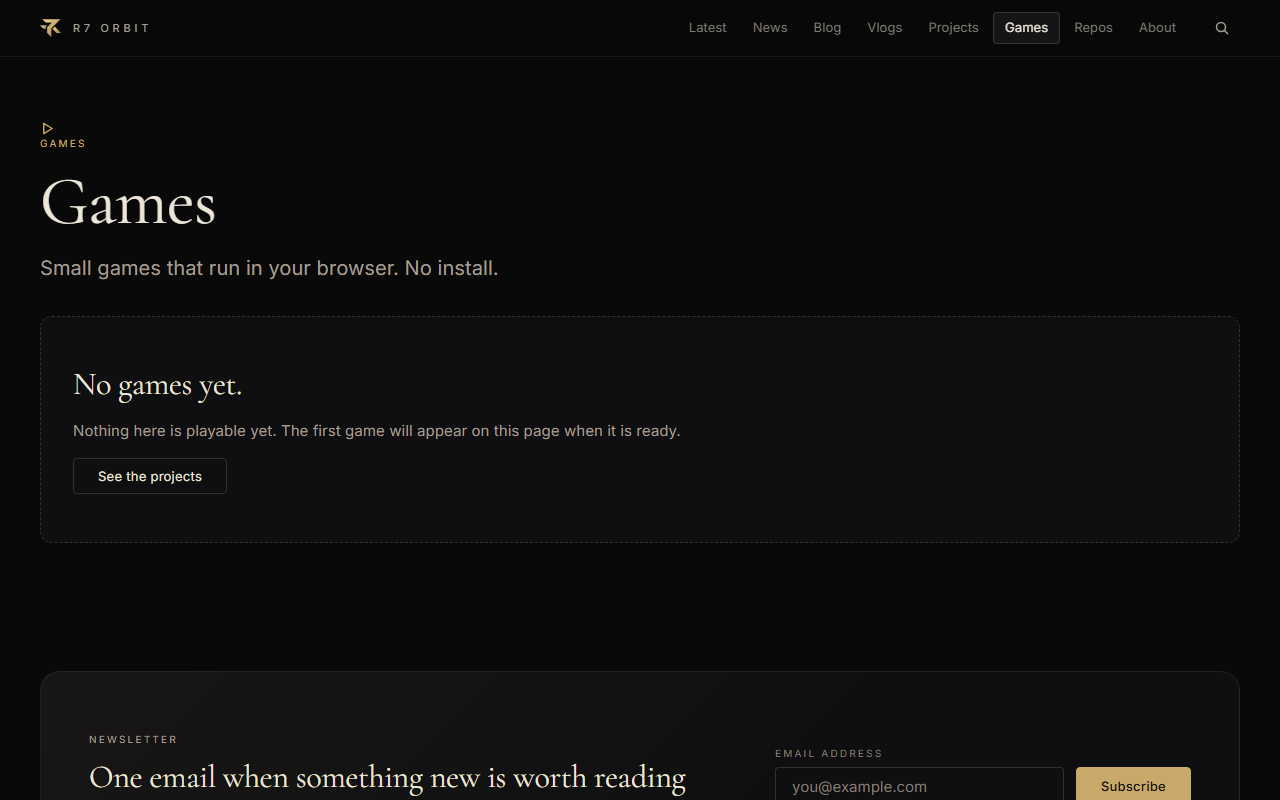
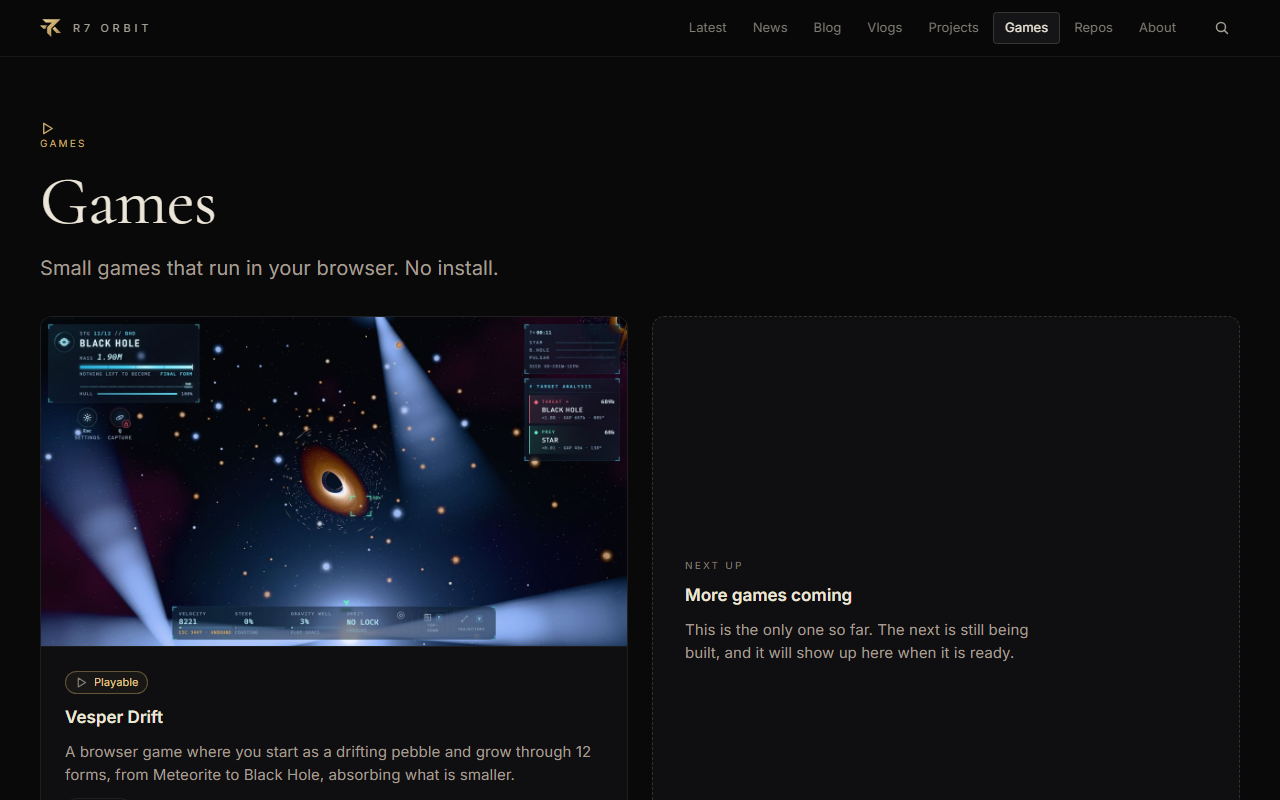
orbit: Games hub page

diff --git a/README.md b/README.md
@@ -18,11 +18,7 @@ A git-based editor for every kind of post, built on [Decap CMS](https://decapcms
 
 Every collection also has the common fields from the schema (`title`, `date`, `updated`, `summary`, `tags`, `cover` + `coverAlt`, `featured`, `draft`, `readTime`, `author`, `canonicalUrl`, `aiAssist`) and a Markdown `body`. The field names are the schema's own (`src/content.config.ts` is strict: a field the schema does not know fails the build), and `src/admin/config.vitest.ts` reads the real schema and fails when the two drift apart: a field added, renamed, or changed between required and optional on one side only. Change them together.
 
-<<<<<<< HEAD
-**Playable projects.** Fill in **Play URL** (an `https://` address) and the project gets a Play section, a Playable badge and game structured data; **Play mode**, **Game aspect ratio**, **Controls**, **Play note** and **Platforms** refine it, and each has help text in the form. The address of an embedded game must be on the `frame-src` line for `/projects/*` in `public/_headers` (`https://play.r7orbit.io` today), or the browser blocks the frame; `playMode: link` needs nothing there. **Order on the Games page** (an optional number, lower first) sets where the game sits on `/games/` and the home Games strip; games without one follow, newest first. The Games page lists every published project with a Play URL, so there is nothing else to fill in; **Platforms** and the cover image show on its card. Controls, note, platforms and order without a Play URL fail the build. `/admin/` stays `noindex` and keeps its own CSP, which this does not touch.
-=======
-**Playable projects.** Fill in **Play URL** (an `https://` address) and the project gets a Play section, a Playable badge and game structured data; **Play mode**, **Game aspect ratio**, **Controls**, **Play note** and **Platforms** refine it, and each has help text in the form. The address of an embedded game must be on the `frame-src` line for `/projects/*` in `public/_headers` (`https://vesper.r7orbit.io` today), or the browser blocks the frame; `playMode: link` needs nothing there. Controls, note and platforms without a Play URL fail the build. `/admin/` stays `noindex` and keeps its own CSP, which this does not touch.
->>>>>>> main
+**Playable projects.** Fill in **Play URL** (an `https://` address) and the project gets a Play section, a Playable badge and game structured data; **Play mode**, **Game aspect ratio**, **Controls**, **Play note** and **Platforms** refine it, and each has help text in the form. The address of an embedded game must be on the `frame-src` line for `/projects/*` in `public/_headers` (`https://vesper.r7orbit.io` today), or the browser blocks the frame; `playMode: link` needs nothing there. **Order on the Games page** (an optional number, lower first) sets where the game sits on `/games/` and the home Games strip; games without one follow, newest first. The Games page lists every published project with a Play URL, so there is nothing else to fill in; **Platforms** and the cover image show on its card. Controls, note, platforms and order without a Play URL fail the build. `/admin/` stays `noindex` and keeps its own CSP, which this does not touch.
 
 Decap cannot check a rule that spans fields, so these are caught only by the build (and by the pull request's CI when deployed), and the field help says so: a vlog needs a **YouTube video ID** (the 11 characters after `v=`) *or* a **video URL**; a **series** needs a part number; a **cover** or **featured image** needs alt text.
 

diff --git a/docs/DECISIONS.md b/docs/DECISIONS.md
@@ -80,12 +80,8 @@ Fill in the "Answer" column as you go. Anything blank uses the recommendation.
 - Admin for every content type (2026-10-04): the admin has a collection for news, vlogs, projects and repos as well as blog posts. Each mirrors its schema in `src/content.config.ts` with the same field names, and `src/admin/config.vitest.ts` reads the real schema to fail when a field is added, renamed, or changes between required and optional on one side only. Blog bodies are `.mdx` (article blocks); the other four are plain `.md`, so the existing sample posts show up in the admin. Rules that span fields (a vlog needs `youtubeId` or `videoUrl`; `series` needs `seriesOrder`; a cover needs alt text) cannot be expressed in Decap: the field help says so, and the build (the pull request's CI when deployed) is what enforces them.
   - `draft` defaults to off in the form, like the schema. This replaces the earlier rule that new blog posts start as drafts.
   - Blog posts have a live preview pane that renders with the site's real stylesheets (`src/admin/preview.ts`). The other kinds have none: their pages are mostly data (cards, stats, README) that the preview could only fake. What the preview approximates is listed in the README ("What the preview does not show").
-<<<<<<< HEAD
 - Games hub (2026-10-05): `/games/` lists every published project with a `playUrl`; there is no `games` collection. Order is the optional `order` number on the project (lower first), then newest. Play goes to `/projects/<slug>/#play`, or to `playUrl` in a new tab for `playMode: link`. With exactly one game a "More games coming" card follows it. The page is `noindex` and out of the sitemap while empty. Search results for playable projects are labelled "Game" through a Pagefind meta (`kind`). Docs: `docs/PAGES.md`.
-- Playable projects (2026-10-05): a project with `playUrl` hosts a browser game deployed separately (planned: `https://play.r7orbit.io/`). Docs: `docs/CONTENT_MODEL.md`.
-=======
 - Playable projects (2026-10-05): a project with `playUrl` hosts a browser game deployed separately (Vesper Drift: `https://vesper.r7orbit.io/`). Docs: `docs/CONTENT_MODEL.md`.
->>>>>>> main
   - The play address is front matter data. The only place the origin is also written is `frame-src` in `public/_headers`, on `/projects/*` only (not `/*`: the YouTube player on vlog and blog pages is a frame as well and `/admin/*` has its own policy, and Pages sends every matching block, so a second CSP there would also be enforced). It is the only directive, so `script-src` is not touched. A test checks every embedded `playUrl` against it.
   - The iframe's `sandbox` is `allow-scripts allow-same-origin allow-pointer-lock`. `allow-fullscreen` was asked for but is not a sandbox flag (Chrome logs it as invalid); fullscreen is granted by `allow="fullscreen; gamepad; autoplay"`. `allow-same-origin` keeps the game's own storage and cookies working; it cannot reach this page because the game is a different origin (keep it that way: never host a game on `r7orbit.io` itself with this sandbox).
   - Fixture and tests: `/styleguide/playable/` (noindex, unlinked, in `tests/routes.js`) draws the real components with a made-up address; `tests/playable.spec.js` answers that address itself.

diff --git a/docs/screenshots/README.md b/docs/screenshots/README.md
@@ -11,7 +11,7 @@ The posts are not named in the script: `tests/routes.js` finds them in `dist/`, 
 | `home-*` | 6 widths | Hero with the orbit, pinned post, header |
 | `latest-*` | 375, 1280 | Mixed archive with kind filter, tag chips, sort |
 | `news-*`, `blog-*`, `vlogs-*`, `projects-*`, `repos-*` | 375, 1280 | Archive pages: heading, toolbar, card grid (or the empty state) |
-| `games-*` | 375, 1280 | The games hub (the empty state until a game is published) |
+| `games-*` | 375, 1280 | The games hub |
 | `styleguide-games-*` | 375, 1280, whole page | The hub fixture: no games, one (with the "More games coming" card), two and five |
 | `<kind>-<slug>-*` | 375, 1280 (articles: see above) | One post of each kind that has one |
 | `tags-*`, `tags-<tag>-*` | 375, 1280 | Tag index and a tag page, when a tag has two posts |
